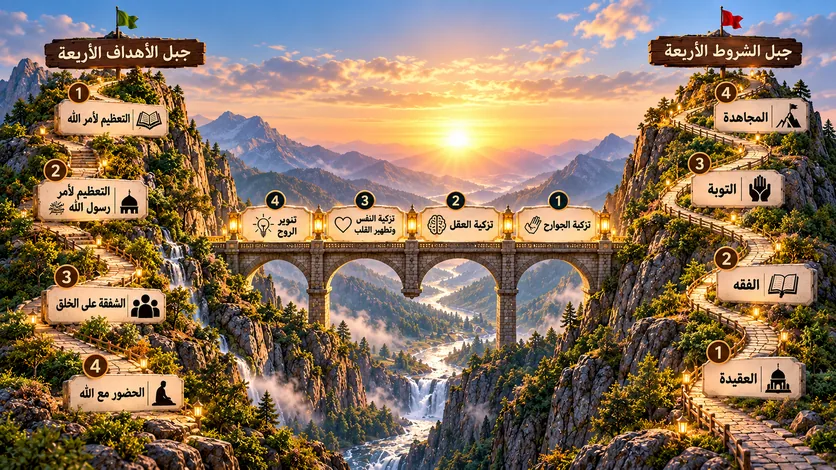
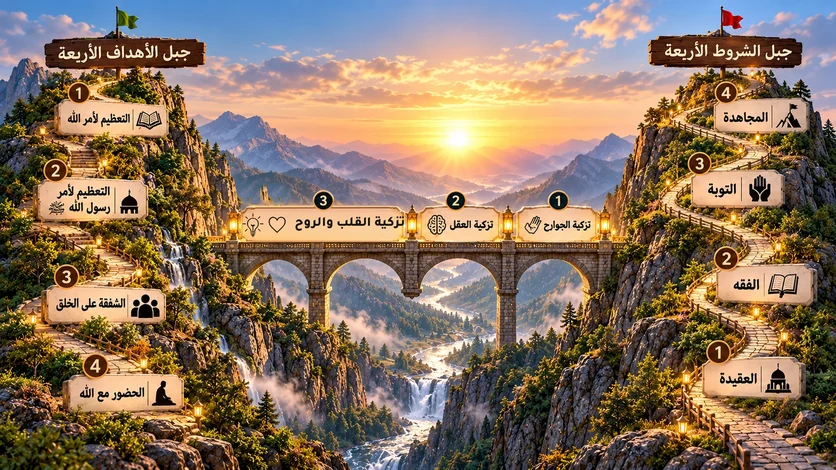
Add files via upload

Changed region(s): [[0.2799, 0.3872, 0.4976, 0.5362]]

diff --git a/index.html b/index.html
@@ -1170,6 +1170,8 @@ document.documentElement.setAttribute('dir','rtl');
 const ADHKAR={"open": {"k": "d", "t": "اللَّهُمَّ صَلِّ عَلَى مُحَمَّدٍ وَعَلَى آلِ مُحَمَّدٍ، كَمَا صَلَّيْتَ عَلَى إِبْرَاهِيمَ وَعَلَى آلِ إِبْرَاهِيمَ؛ إِنَّكَ حَمِيدٌ مَجِيدٌ، اللَّهُمَّ بَارِكْ عَلَى مُحَمَّدٍ وَعَلَى آلِ مُحَمَّدٍ، كَمَا بَارَكْتَ عَلَى إِبْرَاهِيمَ وَعَلَى آلِ إِبْرَاهِيمَ؛ إِنَّكَ حَمِيدٌ مَجِيدٌ", "n": 10, "s": "الاستهلال بالصلاة الإبراهيمية"}, "quran": [{"k": "q", "t": "بِسۡمِ ٱللَّهِ ٱلرَّحۡمَٰنِ ٱلرَّحِيمِ <span class=\"ay\">﴿1﴾</span> ٱلۡحَمۡدُ لِلَّهِ رَبِّ ٱلۡعَٰلَمِينَ <span class=\"ay\">﴿2﴾</span> ٱلرَّحۡمَٰنِ ٱلرَّحِيمِ <span class=\"ay\">﴿3﴾</span> مَٰلِكِ يَوۡمِ ٱلدِّينِ <span class=\"ay\">﴿4﴾</span> إِيَّاكَ نَعۡبُدُ وَإِيَّاكَ نَسۡتَعِينُ <span class=\"ay\">﴿5﴾</span> ٱهۡدِنَا ٱلصِّرَٰطَ ٱلۡمُسۡتَقِيمَ <span class=\"ay\">﴿6﴾</span> صِرَٰطَ ٱلَّذِينَ أَنۡعَمۡتَ عَلَيۡهِمۡ غَيۡرِ ٱلۡمَغۡضُوبِ عَلَيۡهِمۡ وَلَا ٱلضَّآلِّينَ <span class=\"ay\">﴿7﴾</span>", "n": 1, "s": "سورة الفاتحة"}, {"k": "q", "t": "<span class=\"bas\">بِسۡمِ ٱللَّهِ ٱلرَّحۡمَٰنِ ٱلرَّحِيمِ</span>الٓمٓ <span class=\"ay\">﴿1﴾</span> ذَٰلِكَ ٱلۡكِتَٰبُ لَا رَيۡبَۛ فِيهِۛ هُدٗى لِّلۡمُتَّقِينَ <span class=\"ay\">﴿2﴾</span> ٱلَّذِينَ يُؤۡمِنُونَ بِٱلۡغَيۡبِ وَيُقِيمُونَ ٱلصَّلَوٰةَ وَمِمَّا رَزَقۡنَٰهُمۡ يُنفِقُونَ <span class=\"ay\">﴿3﴾</span> وَٱلَّذِينَ يُؤۡمِنُونَ بِمَآ أُنزِلَ إِلَيۡكَ وَمَآ أُنزِلَ مِن قَبۡلِكَ وَبِٱلۡأٓخِرَةِ هُمۡ يُوقِنُونَ <span class=\"ay\">﴿4﴾</span> أُوْلَـٰٓئِكَ عَلَىٰ هُدٗى مِّن رَّبِّهِمۡۖ وَأُوْلَـٰٓئِكَ هُمُ ٱلۡمُفۡلِحُونَ <span class=\"ay\">﴿5﴾</span>", "n": 1, "s": "البقرة 1–5"}, {"k": "q", "t": "ٱللَّهُ لَآ إِلَٰهَ إِلَّا هُوَ ٱلۡحَيُّ ٱلۡقَيُّومُۚ لَا تَأۡخُذُهُۥ سِنَةٞ وَلَا نَوۡمٞۚ لَّهُۥ مَا فِي ٱلسَّمَٰوَٰتِ وَمَا فِي ٱلۡأَرۡضِۗ مَن ذَا ٱلَّذِي يَشۡفَعُ عِندَهُۥٓ إِلَّا بِإِذۡنِهِۦۚ يَعۡلَمُ مَا بَيۡنَ أَيۡدِيهِمۡ وَمَا خَلۡفَهُمۡۖ وَلَا يُحِيطُونَ بِشَيۡءٖ مِّنۡ عِلۡمِهِۦٓ إِلَّا بِمَا شَآءَۚ وَسِعَ كُرۡسِيُّهُ ٱلسَّمَٰوَٰتِ وَٱلۡأَرۡضَۖ وَلَا يَـُٔودُهُۥ حِفۡظُهُمَاۚ وَهُوَ ٱلۡعَلِيُّ ٱلۡعَظِيمُ <span class=\"ay\">﴿255﴾</span> لَآ إِكۡرَاهَ فِي ٱلدِّينِۖ قَد تَّبَيَّنَ ٱلرُّشۡدُ مِنَ ٱلۡغَيِّۚ فَمَن يَكۡفُرۡ بِٱلطَّـٰغُوتِ وَيُؤۡمِنۢ بِٱللَّهِ فَقَدِ ٱسۡتَمۡسَكَ بِٱلۡعُرۡوَةِ ٱلۡوُثۡقَىٰ لَا ٱنفِصَامَ لَهَاۗ وَٱللَّهُ سَمِيعٌ عَلِيمٌ <span class=\"ay\">﴿256﴾</span> ٱللَّهُ وَلِيُّ ٱلَّذِينَ ءَامَنُواْ يُخۡرِجُهُم مِّنَ ٱلظُّلُمَٰتِ إِلَى ٱلنُّورِۖ وَٱلَّذِينَ كَفَرُوٓاْ أَوۡلِيَآؤُهُمُ ٱلطَّـٰغُوتُ يُخۡرِجُونَهُم مِّنَ ٱلنُّورِ إِلَى ٱلظُّلُمَٰتِۗ أُوْلَـٰٓئِكَ أَصۡحَٰبُ ٱلنَّارِۖ هُمۡ فِيهَا خَٰلِدُونَ <span class=\"ay\">﴿257﴾</span>", "n": 1, "s": "آية الكرسي والآيتان بعدها · البقرة 255–257"}, {"k": "q", "t": "لِّلَّهِ مَا فِي ٱلسَّمَٰوَٰتِ وَمَا فِي ٱلۡأَرۡضِۗ وَإِن تُبۡدُواْ مَا فِيٓ أَنفُسِكُمۡ أَوۡ تُخۡفُوهُ يُحَاسِبۡكُم بِهِ ٱللَّهُۖ فَيَغۡفِرُ لِمَن يَشَآءُ وَيُعَذِّبُ مَن يَشَآءُۗ وَٱللَّهُ عَلَىٰ كُلِّ شَيۡءٖ قَدِيرٌ <span class=\"ay\">﴿284﴾</span> ءَامَنَ ٱلرَّسُولُ بِمَآ أُنزِلَ إِلَيۡهِ مِن رَّبِّهِۦ وَٱلۡمُؤۡمِنُونَۚ كُلٌّ ءَامَنَ بِٱللَّهِ وَمَلَـٰٓئِكَتِهِۦ وَكُتُبِهِۦ وَرُسُلِهِۦ لَا نُفَرِّقُ بَيۡنَ أَحَدٖ مِّن رُّسُلِهِۦۚ وَقَالُواْ سَمِعۡنَا وَأَطَعۡنَاۖ غُفۡرَانَكَ رَبَّنَا وَإِلَيۡكَ ٱلۡمَصِيرُ <span class=\"ay\">﴿285﴾</span> لَا يُكَلِّفُ ٱللَّهُ نَفۡسًا إِلَّا وُسۡعَهَاۚ لَهَا مَا كَسَبَتۡ وَعَلَيۡهَا مَا ٱكۡتَسَبَتۡۗ رَبَّنَا لَا تُؤَاخِذۡنَآ إِن نَّسِينَآ أَوۡ أَخۡطَأۡنَاۚ رَبَّنَا وَلَا تَحۡمِلۡ عَلَيۡنَآ إِصۡرٗا كَمَا حَمَلۡتَهُۥ عَلَى ٱلَّذِينَ مِن قَبۡلِنَاۚ رَبَّنَا وَلَا تُحَمِّلۡنَا مَا لَا طَاقَةَ لَنَا بِهِۦۖ وَٱعۡفُ عَنَّا وَٱغۡفِرۡ لَنَا وَٱرۡحَمۡنَآۚ أَنتَ مَوۡلَىٰنَا فَٱنصُرۡنَا عَلَى ٱلۡقَوۡمِ ٱلۡكَٰفِرِينَ <span class=\"ay\">﴿286﴾</span>", "n": 1, "s": "خواتيم البقرة · 284–286"}, {"k": "q", "t": "شَهِدَ ٱللَّهُ أَنَّهُۥ لَآ إِلَٰهَ إِلَّا هُوَ وَٱلۡمَلَـٰٓئِكَةُ وَأُوْلُواْ ٱلۡعِلۡمِ قَآئِمَۢا بِٱلۡقِسۡطِۚ لَآ إِلَٰهَ إِلَّا هُوَ ٱلۡعَزِيزُ ٱلۡحَكِيمُ <span class=\"ay\">﴿18﴾</span> إِنَّ ٱلدِّينَ عِندَ ٱللَّهِ ٱلۡإِسۡلَٰمُۗ <span class=\"ay\">…</span>", "n": 1, "s": "آل عمران 18–19"}, {"k": "q", "t": "حَسۡبِيَ ٱللَّهُ لَآ إِلَٰهَ إِلَّا هُوَۖ عَلَيۡهِ تَوَكَّلۡتُۖ وَهُوَ رَبُّ ٱلۡعَرۡشِ ٱلۡعَظِيمِ <span class=\"ay\">﴿129﴾</span>", "n": 7, "s": "التوبة 129"}, {"k": "q", "t": "قُلِ ٱدۡعُواْ ٱللَّهَ أَوِ ٱدۡعُواْ ٱلرَّحۡمَٰنَۖ أَيّٗا مَّا تَدۡعُواْ فَلَهُ ٱلۡأَسۡمَآءُ ٱلۡحُسۡنَىٰۚ وَلَا تَجۡهَرۡ بِصَلَاتِكَ وَلَا تُخَافِتۡ بِهَا وَٱبۡتَغِ بَيۡنَ ذَٰلِكَ سَبِيلٗا <span class=\"ay\">﴿110﴾</span> وَقُلِ ٱلۡحَمۡدُ لِلَّهِ ٱلَّذِي لَمۡ يَتَّخِذۡ وَلَدٗا وَلَمۡ يَكُن لَّهُۥ شَرِيكٞ فِي ٱلۡمُلۡكِ وَلَمۡ يَكُن لَّهُۥ وَلِيّٞ مِّنَ ٱلذُّلِّۖ وَكَبِّرۡهُ تَكۡبِيرَۢا <span class=\"ay\">﴿111﴾</span>", "n": 3, "s": "الإسراء 110–111"}, {"k": "q", "t": "أَفَحَسِبۡتُمۡ أَنَّمَا خَلَقۡنَٰكُمۡ عَبَثٗا وَأَنَّكُمۡ إِلَيۡنَا لَا تُرۡجَعُونَ <span class=\"ay\">﴿115﴾</span> فَتَعَٰلَى ٱللَّهُ ٱلۡمَلِكُ ٱلۡحَقُّۖ لَآ إِلَٰهَ إِلَّا هُوَ رَبُّ ٱلۡعَرۡشِ ٱلۡكَرِيمِ <span class=\"ay\">﴿116﴾</span> وَمَن يَدۡعُ مَعَ ٱللَّهِ إِلَٰهًا ءَاخَرَ لَا بُرۡهَٰنَ لَهُۥ بِهِۦ فَإِنَّمَا حِسَابُهُۥ عِندَ رَبِّهِۦٓۚ إِنَّهُۥ لَا يُفۡلِحُ ٱلۡكَٰفِرُونَ <span class=\"ay\">﴿117﴾</span> وَقُل رَّبِّ ٱغۡفِرۡ وَٱرۡحَمۡ وَأَنتَ خَيۡرُ ٱلرَّـٰحِمِينَ <span class=\"ay\">﴿118﴾</span>", "n": 1, "s": "المؤمنون 115–118"}, {"k": "q", "t": "فَسُبۡحَٰنَ ٱللَّهِ حِينَ تُمۡسُونَ وَحِينَ تُصۡبِحُونَ <span class=\"ay\">﴿17﴾</span> وَلَهُ ٱلۡحَمۡدُ فِي ٱلسَّمَٰوَٰتِ وَٱلۡأَرۡضِ وَعَشِيّٗا وَحِينَ تُظۡهِرُونَ <span class=\"ay\">﴿18﴾</span> يُخۡرِجُ ٱلۡحَيَّ مِنَ ٱلۡمَيِّتِ وَيُخۡرِجُ ٱلۡمَيِّتَ مِنَ ٱلۡحَيِّ وَيُحۡيِ ٱلۡأَرۡضَ بَعۡدَ مَوۡتِهَاۚ وَكَذَٰلِكَ تُخۡرَجُونَ <span class=\"ay\">﴿19﴾</span>", "n": 3, "s": "الروم 17–19"}, {"k": "q", "t": "<span class=\"bas\">بِسۡمِ ٱللَّهِ ٱلرَّحۡمَٰنِ ٱلرَّحِيمِ</span>حمٓ <span class=\"ay\">﴿1﴾</span> تَنزِيلُ ٱلۡكِتَٰبِ مِنَ ٱللَّهِ ٱلۡعَزِيزِ ٱلۡعَلِيمِ <span class=\"ay\">﴿2﴾</span> غَافِرِ ٱلذَّنۢبِ وَقَابِلِ ٱلتَّوۡبِ شَدِيدِ ٱلۡعِقَابِ ذِي ٱلطَّوۡلِۖ لَآ إِلَٰهَ إِلَّا هُوَۖ إِلَيۡهِ ٱلۡمَصِيرُ <span class=\"ay\">﴿3﴾</span>", "n": 3, "s": "غافر 1–3"}, {"k": "q", "t": "ٱللَّهُ لَآ إِلَٰهَ إِلَّا هُوَ ٱلۡحَيُّ ٱلۡقَيُّومُۚ لَا تَأۡخُذُهُۥ سِنَةٞ وَلَا نَوۡمٞۚ لَّهُۥ مَا فِي ٱلسَّمَٰوَٰتِ وَمَا فِي ٱلۡأَرۡضِۗ مَن ذَا ٱلَّذِي يَشۡفَعُ عِندَهُۥٓ إِلَّا بِإِذۡنِهِۦۚ يَعۡلَمُ مَا بَيۡنَ أَيۡدِيهِمۡ وَمَا خَلۡفَهُمۡۖ وَلَا يُحِيطُونَ بِشَيۡءٖ مِّنۡ عِلۡمِهِۦٓ إِلَّا بِمَا شَآءَۚ وَسِعَ كُرۡسِيُّهُ ٱلسَّمَٰوَٰتِ وَٱلۡأَرۡضَۖ وَلَا يَـُٔودُهُۥ حِفۡظُهُمَاۚ وَهُوَ ٱلۡعَلِيُّ ٱلۡعَظِيمُ <span class=\"ay\">﴿255﴾</span>", "n": 1, "s": "آية الكرسي · البقرة 255"}, {"k": "d", "t": "أَعُوذُ بِاللَّهِ السَّمِيعِ الْعَلِيمِ مِنَ الشَّيْطَانِ الرَّجِيمِ", "n": 3, "s": "الاستعاذة"}, {"k": "q", "t": "هُوَ ٱللَّهُ ٱلَّذِي لَآ إِلَٰهَ إِلَّا هُوَۖ عَٰلِمُ ٱلۡغَيۡبِ وَٱلشَّهَٰدَةِۖ هُوَ ٱلرَّحۡمَٰنُ ٱلرَّحِيمُ <span class=\"ay\">﴿22﴾</span> هُوَ ٱللَّهُ ٱلَّذِي لَآ إِلَٰهَ إِلَّا هُوَ ٱلۡمَلِكُ ٱلۡقُدُّوسُ ٱلسَّلَٰمُ ٱلۡمُؤۡمِنُ ٱلۡمُهَيۡمِنُ ٱلۡعَزِيزُ ٱلۡجَبَّارُ ٱلۡمُتَكَبِّرُۚ سُبۡحَٰنَ ٱللَّهِ عَمَّا يُشۡرِكُونَ <span class=\"ay\">﴿23﴾</span> هُوَ ٱللَّهُ ٱلۡخَٰلِقُ ٱلۡبَارِئُ ٱلۡمُصَوِّرُۖ لَهُ ٱلۡأَسۡمَآءُ ٱلۡحُسۡنَىٰۚ يُسَبِّحُ لَهُۥ مَا فِي ٱلسَّمَٰوَٰتِ وَٱلۡأَرۡضِۖ وَهُوَ ٱلۡعَزِيزُ ٱلۡحَكِيمُ <span class=\"ay\">﴿24﴾</span>", "n": 1, "s": "الحشر 22–24"}, {"k": "q", "t": "<span class=\"sn\">سورة الإخلاص</span><span class=\"bas\">بِسۡمِ ٱللَّهِ ٱلرَّحۡمَٰنِ ٱلرَّحِيمِ</span>قُلۡ هُوَ ٱللَّهُ أَحَدٌ <span class=\"ay\">﴿1﴾</span> ٱللَّهُ ٱلصَّمَدُ <span class=\"ay\">﴿2﴾</span> لَمۡ يَلِدۡ وَلَمۡ يُولَدۡ <span class=\"ay\">﴿3﴾</span> وَلَمۡ يَكُن لَّهُۥ كُفُوًا أَحَدُۢ <span class=\"ay\">﴿4﴾</span><br><span class=\"sn\">سورة الفلق</span><span class=\"bas\">بِسۡمِ ٱللَّهِ ٱلرَّحۡمَٰنِ ٱلرَّحِيمِ</span>قُلۡ أَعُوذُ بِرَبِّ ٱلۡفَلَقِ <span class=\"ay\">﴿1﴾</span> مِن شَرِّ مَا خَلَقَ <span class=\"ay\">﴿2﴾</span> وَمِن شَرِّ غَاسِقٍ إِذَا وَقَبَ <span class=\"ay\">﴿3﴾</span> وَمِن شَرِّ ٱلنَّفَّـٰثَٰتِ فِي ٱلۡعُقَدِ <span class=\"ay\">﴿4﴾</span> وَمِن شَرِّ حَاسِدٍ إِذَا حَسَدَ <span class=\"ay\">﴿5﴾</span><br><span class=\"sn\">سورة الناس</span><span class=\"bas\">بِسۡمِ ٱللَّهِ ٱلرَّحۡمَٰنِ ٱلرَّحِيمِ</span>قُلۡ أَعُوذُ بِرَبِّ ٱلنَّاسِ <span class=\"ay\">﴿1﴾</span> مَلِكِ ٱلنَّاسِ <span class=\"ay\">﴿2﴾</span> إِلَٰهِ ٱلنَّاسِ <span class=\"ay\">﴿3﴾</span> مِن شَرِّ ٱلۡوَسۡوَاسِ ٱلۡخَنَّاسِ <span class=\"ay\">﴿4﴾</span> ٱلَّذِي يُوَسۡوِسُ فِي صُدُورِ ٱلنَّاسِ <span class=\"ay\">﴿5﴾</span> مِنَ ٱلۡجِنَّةِ وَٱلنَّاسِ <span class=\"ay\">﴿6﴾</span>", "n": 3, "s": "المعوّذات: الإخلاص والفلق والناس"}], "sabah": [{"k": "s", "t": "رَضِيتُ بِاللَّهِ رَبًّا، وَبِالْإِسْلَامِ دِينًا، وَبِمُحَمَّدٍ ﷺ نَبِيًّا", "n": 3}, {"k": "s", "t": "بِسْمِ اللَّهِ الَّذِي لَا يَضُرُّ مَعَ اسْمِهِ شَيْءٌ فِي الْأَرْضِ وَلَا فِي السَّمَاءِ، وَهُوَ السَّمِيعُ الْعَلِيمُ", "n": 3}, {"k": "s", "t": "اللَّهُمَّ أَنْتَ رَبِّي لَا إِلَهَ إِلَّا أَنْتَ، عَلَيْكَ تَوَكَّلْتُ، وَأَنْتَ رَبُّ الْعَرْشِ الْعَظِيمِ، مَا شَاءَ اللَّهُ كَانَ وَمَا لَمْ يَشَأْ لَمْ يَكُنْ، لَا حَوْلَ وَلَا قُوَّةَ إِلَّا بِاللَّهِ الْعَلِيِّ الْعَظِيمِ، أَعْلَمُ أَنَّ اللَّهَ عَلَى كُلِّ شَيْءٍ قَدِيرٌ، وَأَنَّ اللَّهَ قَدْ أَحَاطَ بِكُلِّ شَيْءٍ عِلْمًا، اللَّهُمَّ إِنِّي أَعُوذُ بِكَ مِنْ شَرِّ نَفْسِي، وَمِنْ شَرِّ كُلِّ دَابَّةٍ أَنْتَ آخِذٌ بِنَاصِيَتِهَا، إِنَّ رَبِّي عَلَى صِرَاطٍ مُسْتَقِيمٍ", "n": 1}, {"k": "s", "t": "أَصْبَحْنَا وَأَصْبَحَ الْمُلْكُ لِلَّهِ وَالْحَمْدُ لِلَّهِ، لَا إِلَهَ إِلَّا اللَّهُ وَحْدَهُ لَا شَرِيكَ لَهُ، لَهُ الْمُلْكُ وَلَهُ الْحَمْدُ وَهُوَ عَلَى كُلِّ شَيْءٍ قَدِيرٌ، رَبِّ أَسْأَلُكَ خَيْرَ مَا فِي هَذَا الْيَوْمِ وَخَيْرَ مَا بَعْدَهُ، وَأَعُوذُ بِكَ مِنْ شَرِّ مَا فِي هَذَا الْيَوْمِ وَشَرِّ مَا بَعْدَهُ، رَبِّ أَعُوذُ بِكَ مِنَ الْكَسَلِ وَسُوءِ الْكِبَرِ، رَبِّ أَعُوذُ بِكَ مِنْ عَذَابٍ فِي النَّارِ وَعَذَابٍ فِي الْقَبْرِ", "n": 3}, {"k": "s", "t": "أَصْبَحْنَا وَأَصْبَحَ الْمُلْكُ لِلَّهِ رَبِّ الْعَالَمِينَ، اللَّهُمَّ إِنِّي أَسْأَلُكَ خَيْرَ هَذَا الْيَوْمِ فَتْحَهُ وَنَصْرَهُ وَنُورَهُ وَبَرَكَتَهُ وَهُدَاهُ، وَأَعُوذُ بِكَ مِنْ شَرِّ مَا فِيهِ وَشَرِّ مَا بَعْدَهُ", "n": 3}, {"k": "s", "t": "اللَّهُمَّ بِكَ أَصْبَحْنَا، وَبِكَ أَمْسَيْنَا، وَبِكَ نَحْيَا، وَبِكَ نَمُوتُ، وَإِلَيْكَ النُّشُورُ", "n": 3}, {"k": "s", "t": "اللَّهُمَّ مَا أَصْبَحَ بِي مِنْ نِعْمَةٍ أَوْ بِأَحَدٍ مِنْ خَلْقِكَ فَمِنْكَ وَحْدَكَ لَا شَرِيكَ لَكَ، فَلَكَ الْحَمْدُ وَلَكَ الشُّكْرُ", "n": 3}, {"k": "s", "t": "اللَّهُمَّ إِنِّي أَصْبَحْتُ أُشْهِدُكَ وَأُشْهِدُ حَمَلَةَ عَرْشِكَ، وَمَلَائِكَتَكَ وَجَمِيعَ خَلْقِكَ، بِأَنَّكَ أَنْتَ اللَّهُ لَا إِلَهَ إِلَّا أَنْتَ وَحْدَكَ لَا شَرِيكَ لَكَ، وَأَنَّ مُحَمَّدًا عَبْدُكَ وَرَسُولُكَ", "n": 4}, {"k": "s", "t": "اللَّهُمَّ إِنِّي أَسْأَلُكَ الْعَفْوَ وَالْعَافِيَةَ فِي الدُّنْيَا وَالْآخِرَةِ، اللَّهُمَّ إِنِّي أَسْأَلُكَ الْعَفْوَ وَالْعَافِيَةَ فِي دِينِي وَدُنْيَايَ وَأَهْلِي وَمَالِي، اللَّهُمَّ اسْتُرْ عَوْرَاتِي، وَآمِنْ رَوْعَاتِي، اللَّهُمَّ احْفَظْنِي مِنْ بَيْنِ يَدَيَّ، وَمِنْ خَلْفِي، وَعَنْ يَمِينِي، وَعَنْ شِمَالِي، وَمِنْ فَوْقِي، وَأَعُوذُ بِعَظَمَتِكَ أَنْ أُغْتَالَ مِنْ تَحْتِي", "n": 3}, {"k": "s", "t": "اللَّهُمَّ أَنْتَ رَبِّي لَا إِلَهَ إِلَّا أَنْتَ، خَلَقْتَنِي وَأَنَا عَبْدُكَ، وَأَنَا عَلَى عَهْدِكَ وَوَعْدِكَ مَا اسْتَطَعْتُ، أَعُوذُ بِكَ مِنْ شَرِّ مَا صَنَعْتُ، أَبُوءُ لَكَ بِنِعْمَتِكَ عَلَيَّ، وَأَبُوءُ لَكَ بِذَنْبِي فَاغْفِرْ لِي؛ فَإِنَّهُ لَا يَغْفِرُ الذُّنُوبَ إِلَّا أَنْتَ", "n": 3}, {"k": "s", "t": "أَصْبَحْنَا عَلَى فِطْرَةِ الْإِسْلَامِ، وَعَلَى كَلِمَةِ الْإِخْلَاصِ، وَعَلَى دِينِ نَبِيِّنَا مُحَمَّدٍ صَلَّى اللَّهُ عَلَيْهِ وَسَلَّمَ، وَعَلَى مِلَّةِ أَبِينَا إِبْرَاهِيمَ، حَنِيفًا مُسْلِمًا، وَمَا كَانَ مِنَ الْمُشْرِكِينَ", "n": 3}, {"k": "s", "t": "اللَّهُمَّ إِنِّي أَصْبَحْتُ مِنْكَ فِي نِعْمَةٍ وَعَافِيَةٍ وَسِتْرٍ، فَأَتْمِمْ عَلَيَّ نِعْمَتَكَ وَعَافِيَتَكَ وَسِتْرَكَ فِي الدُّنْيَا وَالْآخِرَةِ", "n": 3}, {"k": "s", "t": "اللَّهُمَّ فَاطِرَ السَّمَاوَاتِ وَالْأَرْضِ، عَالِمَ الْغَيْبِ وَالشَّهَادَةِ، لَا إِلَهَ إِلَّا أَنْتَ، رَبَّ كُلِّ شَيْءٍ وَمَلِيكَهُ، أَعُوذُ بِكَ مِنْ شَرِّ نَفْسِي وَمِنْ شَرِّ الشَّيْطَانِ وَشِرْكِهِ، وَأَنْ أَقْتَرِفَ عَلَى نَفْسِي سُوءًا أَوْ أَجُرَّهُ إِلَى مُسْلِمٍ", "n": 3}, {"k": "s", "t": "سُبْحَانَ اللَّهِ وَبِحَمْدِهِ عَدَدَ خَلْقِهِ، وَرِضَا نَفْسِهِ، وَزِنَةَ عَرْشِهِ، وَمِدَادَ كَلِمَاتِهِ", "n": 3}, {"k": "s", "t": "يَا رَبِّ لَكَ الْحَمْدُ كَمَا يَنْبَغِي لِجَلَالِ وَجْهِكَ وَلِعَظِيمِ سُلْطَانِكَ", "n": 3}, {"k": "s", "t": "يَا حَيُّ يَا قَيُّومُ بِرَحْمَتِكَ أَسْتَغِيثُ، أَصْلِحْ لِي شَأْنِي كُلَّهُ، وَلَا تَكِلْنِي إِلَى نَفْسِي طَرْفَةَ عَيْنٍ", "n": 3}, {"k": "s", "t": "سُبْحَانَكَ اللَّهُمَّ وَبِحَمْدِكَ، أَشْهَدُ أَنْ لَا إِلَهَ إِلَّا أَنْتَ، أَسْتَغْفِرُكَ وَأَتُوبُ إِلَيْكَ", "n": 3}, {"k": "s", "t": "اللَّهُمَّ عَافِنِي فِي بَدَنِي، اللَّهُمَّ عَافِنِي فِي سَمْعِي، اللَّهُمَّ عَافِنِي فِي بَصَرِي، لَا إِلَهَ إِلَّا أَنْتَ", "n": 3}, {"k": "s", "t": "اللَّهُمَّ إِنِّي أَعُوذُ بِكَ مِنَ الْكُفْرِ وَالْفَقْرِ، اللَّهُمَّ إِنِّي أَعُوذُ بِكَ مِنْ عَذَابِ الْقَبْرِ، لَا إِلَهَ إِلَّا أَنْتَ", "n": 3}, {"k": "s", "t": "اللَّهُمَّ أَلْهِمْنِي رُشْدِي، وَأَعِذْنِي مِنْ شَرِّ نَفْسِي", "n": 3}, {"k": "s", "t": "اللَّهُمَّ إِنِّي أَعُوذُ بِكَ مِنَ الْهَمِّ وَالْحَزَنِ، وَأَعُوذُ بِكَ مِنَ الْعَجْزِ وَالْكَسَلِ، وَأَعُوذُ بِكَ مِنَ الْجُبْنِ وَالْبُخْلِ، وَأَعُوذُ بِكَ مِنْ غَلَبَةِ الدَّيْنِ، وَقَهْرِ الرِّجَالِ", "n": 3}, {"k": "s", "t": "اللَّهُمَّ إِنِّي أَعُوذُ بِكَ أَنْ أُشْرِكَ بِكَ وَأَنَا أَعْلَمُ، وَأَسْتَغْفِرُكَ لِمَا لَا أَعْلَمُ", "n": 3}, {"k": "s", "t": "سُبْحَانَ اللَّهِ الْعَظِيمِ وَبِحَمْدِهِ، وَلَا حَوْلَ وَلَا قُوَّةَ إِلَّا بِاللَّهِ", "n": 3}, {"k": "s", "t": "اللَّهُ أَكْبَرُ، اللَّهُ أَكْبَرُ، اللَّهُ أَكْبَرُ، بِسْمِ اللَّهِ عَلَى نَفْسِي وَدِينِي، بِسْمِ اللَّهِ عَلَى كُلِّ شَيْءٍ أَعْطَانِيهِ رَبِّي، بِسْمِ اللَّهِ خَيْرِ الْأَسْمَاءِ، بِسْمِ اللَّهِ الَّذِي لَا يَضُرُّ مَعَ اسْمِهِ شَيْءٌ فِي الْأَرْضِ وَلَا فِي السَّمَاءِ، بِسْمِ اللَّهِ افْتَتَحْتُ وَعَلَى اللَّهِ تَوَكَّلْتُ، اللَّهُ اللَّهُ رَبِّي لَا أُشْرِكُ بِهِ أَحَدًا، أَسْأَلُكَ اللَّهُمَّ بِخَيْرِكَ مِنْ خَيْرِكَ الَّذِي لَا يُعْطِيهِ أَحَدٌ غَيْرُكَ، عَزَّ جَارُكَ وَجَلَّ ثَنَاؤُكَ وَلَا إِلَهَ غَيْرُكَ، اجْعَلْنِي فِي عِيَاذِكَ مِنْ شَرِّ كُلِّ سُلْطَانٍ وَمِنَ الشَّيْطَانِ الرَّجِيمِ، اللَّهُمَّ إِنِّي أَحْتَرِسُ بِكَ مِنْ شَرِّ جَمِيعِ كُلِّ ذِي شَرٍّ خَلَقْتَهُ، وَأَحْتَرِزُ بِكَ مِنْهُمْ، وَأُقَدِّمُ بَيْنَ يَدَيَّ: بِسْمِ اللَّهِ الرَّحْمَنِ الرَّحِيمِ ﴿قُلْ هُوَ اللَّهُ أَحَدٌ * اللَّهُ الصَّمَدُ * لَمْ يَلِدْ وَلَمْ يُولَدْ * وَلَمْ يَكُنْ لَهُ كُفُوًا أَحَدٌ﴾، وَمِنْ خَلْفِي مِثْلَ ذَلِكَ، وَعَنْ يَمِينِي مِثْلَ ذَلِكَ، وَعَنْ يَسَارِي مِثْلَ ذَلِكَ، وَمِنْ فَوْقِي مِثْلَ ذَلِكَ", "n": 1}], "masa": [{"k": "s", "t": "رَضِيتُ بِاللَّهِ رَبًّا، وَبِالْإِسْلَامِ دِينًا، وَبِمُحَمَّدٍ ﷺ نَبِيًّا", "n": 3}, {"k": "s", "t": "بِسْمِ اللَّهِ الَّذِي لَا يَضُرُّ مَعَ اسْمِهِ شَيْءٌ فِي الْأَرْضِ وَلَا فِي السَّمَاءِ، وَهُوَ السَّمِيعُ الْعَلِيمُ", "n": 3}, {"k": "s", "t": "اللَّهُمَّ أَنْتَ رَبِّي لَا إِلَهَ إِلَّا أَنْتَ، عَلَيْكَ تَوَكَّلْتُ، وَأَنْتَ رَبُّ الْعَرْشِ الْعَظِيمِ، مَا شَاءَ اللَّهُ كَانَ وَمَا لَمْ يَشَأْ لَمْ يَكُنْ، لَا حَوْلَ وَلَا قُوَّةَ إِلَّا بِاللَّهِ الْعَلِيِّ الْعَظِيمِ، أَعْلَمُ أَنَّ اللَّهَ عَلَى كُلِّ شَيْءٍ قَدِيرٌ، وَأَنَّ اللَّهَ قَدْ أَحَاطَ بِكُلِّ شَيْءٍ عِلْمًا، اللَّهُمَّ إِنِّي أَعُوذُ بِكَ مِنْ شَرِّ نَفْسِي، وَمِنْ شَرِّ كُلِّ دَابَّةٍ أَنْتَ آخِذٌ بِنَاصِيَتِهَا، إِنَّ رَبِّي عَلَى صِرَاطٍ مُسْتَقِيمٍ", "n": 1}, {"k": "s", "t": "أَمْسَيْنَا وَأَمْسَى الْمُلْكُ لِلَّهِ وَالْحَمْدُ لِلَّهِ، لَا إِلَهَ إِلَّا اللَّهُ وَحْدَهُ لَا شَرِيكَ لَهُ، لَهُ الْمُلْكُ وَلَهُ الْحَمْدُ وَهُوَ عَلَى كُلِّ شَيْءٍ قَدِيرٌ، رَبِّ أَسْأَلُكَ خَيْرَ مَا فِي هَذِهِ اللَّيْلَةِ وَخَيْرَ مَا بَعْدَهَا، وَأَعُوذُ بِكَ مِنْ شَرِّ مَا فِي هَذِهِ اللَّيْلَةِ وَشَرِّ مَا بَعْدَهَا، رَبِّ أَعُوذُ بِكَ مِنَ الْكَسَلِ وَسُوءِ الْكِبَرِ، رَبِّ أَعُوذُ بِكَ مِنْ عَذَابٍ فِي النَّارِ وَعَذَابٍ فِي الْقَبْرِ", "n": 3}, {"k": "s", "t": "أَمْسَيْنَا وَأَمْسَى الْمُلْكُ لِلَّهِ رَبِّ الْعَالَمِينَ، اللَّهُمَّ إِنِّي أَسْأَلُكَ خَيْرَ هَذِهِ اللَّيْلَةِ فَتْحَهَا وَنَصْرَهَا وَنُورَهَا وَبَرَكَتَهَا وَهُدَاهَا، وَأَعُوذُ بِكَ مِنْ شَرِّ مَا فِيهَا وَشَرِّ مَا بَعْدَهَا", "n": 3}, {"k": "s", "t": "اللَّهُمَّ بِكَ أَمْسَيْنَا، وَبِكَ أَصْبَحْنَا، وَبِكَ نَحْيَا، وَبِكَ نَمُوتُ، وَإِلَيْكَ الْمَصِيرُ", "n": 3}, {"k": "s", "t": "اللَّهُمَّ مَا أَمْسَى بِي مِنْ نِعْمَةٍ أَوْ بِأَحَدٍ مِنْ خَلْقِكَ فَمِنْكَ وَحْدَكَ لَا شَرِيكَ لَكَ، فَلَكَ الْحَمْدُ وَلَكَ الشُّكْرُ", "n": 3}, {"k": "s", "t": "اللَّهُمَّ إِنِّي أَمْسَيْتُ أُشْهِدُكَ وَأُشْهِدُ حَمَلَةَ عَرْشِكَ، وَمَلَائِكَتَكَ وَجَمِيعَ خَلْقِكَ، بِأَنَّكَ أَنْتَ اللَّهُ لَا إِلَهَ إِلَّا أَنْتَ وَحْدَكَ لَا شَرِيكَ لَكَ، وَأَنَّ مُحَمَّدًا عَبْدُكَ وَرَسُولُكَ", "n": 4}, {"k": "s", "t": "اللَّهُمَّ إِنِّي أَسْأَلُكَ الْعَفْوَ وَالْعَافِيَةَ فِي الدُّنْيَا وَالْآخِرَةِ، اللَّهُمَّ إِنِّي أَسْأَلُكَ الْعَفْوَ وَالْعَافِيَةَ فِي دِينِي وَدُنْيَايَ وَأَهْلِي وَمَالِي، اللَّهُمَّ اسْتُرْ عَوْرَاتِي، وَآمِنْ رَوْعَاتِي، اللَّهُمَّ احْفَظْنِي مِنْ بَيْنِ يَدَيَّ، وَمِنْ خَلْفِي، وَعَنْ يَمِينِي، وَعَنْ شِمَالِي، وَمِنْ فَوْقِي، وَأَعُوذُ بِعَظَمَتِكَ أَنْ أُغْتَالَ مِنْ تَحْتِي", "n": 3}, {"k": "s", "t": "اللَّهُمَّ أَنْتَ رَبِّي لَا إِلَهَ إِلَّا أَنْتَ، خَلَقْتَنِي وَأَنَا عَبْدُكَ، وَأَنَا عَلَى عَهْدِكَ وَوَعْدِكَ مَا اسْتَطَعْتُ، أَعُوذُ بِكَ مِنْ شَرِّ مَا صَنَعْتُ، أَبُوءُ لَكَ بِنِعْمَتِكَ عَلَيَّ، وَأَبُوءُ لَكَ بِذَنْبِي فَاغْفِرْ لِي؛ فَإِنَّهُ لَا يَغْفِرُ الذُّنُوبَ إِلَّا أَنْتَ", "n": 3}, {"k": "s", "t": "أَمْسَيْنَا عَلَى فِطْرَةِ الْإِسْلَامِ، وَعَلَى كَلِمَةِ الْإِخْلَاصِ، وَعَلَى دِينِ نَبِيِّنَا مُحَمَّدٍ صَلَّى اللَّهُ عَلَيْهِ وَسَلَّمَ، وَعَلَى مِلَّةِ أَبِينَا إِبْرَاهِيمَ، حَنِيفًا مُسْلِمًا، وَمَا كَانَ مِنَ الْمُشْرِكِينَ", "n": 3}, {"k": "s", "t": "اللَّهُمَّ إِنِّي أَمْسَيْتُ مِنْكَ فِي نِعْمَةٍ وَعَافِيَةٍ وَسِتْرٍ، فَأَتْمِمْ عَلَيَّ نِعْمَتَكَ وَعَافِيَتَكَ وَسِتْرَكَ فِي الدُّنْيَا وَالْآخِرَةِ", "n": 3}, {"k": "s", "t": "اللَّهُمَّ فَاطِرَ السَّمَاوَاتِ وَالْأَرْضِ، عَالِمَ الْغَيْبِ وَالشَّهَادَةِ، لَا إِلَهَ إِلَّا أَنْتَ، رَبَّ كُلِّ شَيْءٍ وَمَلِيكَهُ، أَعُوذُ بِكَ مِنْ شَرِّ نَفْسِي وَمِنْ شَرِّ الشَّيْطَانِ وَشِرْكِهِ، وَأَنْ أَقْتَرِفَ عَلَى نَفْسِي سُوءًا أَوْ أَجُرَّهُ إِلَى مُسْلِمٍ", "n": 3}, {"k": "s", "t": "سُبْحَانَ اللَّهِ وَبِحَمْدِهِ عَدَدَ خَلْقِهِ، وَرِضَا نَفْسِهِ، وَزِنَةَ عَرْشِهِ، وَمِدَادَ كَلِمَاتِهِ", "n": 3}, {"k": "s", "t": "يَا رَبِّ لَكَ الْحَمْدُ كَمَا يَنْبَغِي لِجَلَالِ وَجْهِكَ وَلِعَظِيمِ سُلْطَانِكَ", "n": 3}, {"k": "s", "t": "يَا حَيُّ يَا قَيُّومُ بِرَحْمَتِكَ أَسْتَغِيثُ، أَصْلِحْ لِي شَأْنِي كُلَّهُ، وَلَا تَكِلْنِي إِلَى نَفْسِي طَرْفَةَ عَيْنٍ", "n": 3}, {"k": "s", "t": "سُبْحَانَكَ اللَّهُمَّ وَبِحَمْدِكَ، أَشْهَدُ أَنْ لَا إِلَهَ إِلَّا أَنْتَ، أَسْتَغْفِرُكَ وَأَتُوبُ إِلَيْكَ", "n": 3}, {"k": "s", "t": "اللَّهُمَّ عَافِنِي فِي بَدَنِي، اللَّهُمَّ عَافِنِي فِي سَمْعِي، اللَّهُمَّ عَافِنِي فِي بَصَرِي، لَا إِلَهَ إِلَّا أَنْتَ", "n": 3}, {"k": "s", "t": "اللَّهُمَّ إِنِّي أَعُوذُ بِكَ مِنَ الْكُفْرِ وَالْفَقْرِ، اللَّهُمَّ إِنِّي أَعُوذُ بِكَ مِنْ عَذَابِ الْقَبْرِ، لَا إِلَهَ إِلَّا أَنْتَ", "n": 3}, {"k": "s", "t": "اللَّهُمَّ أَلْهِمْنِي رُشْدِي، وَأَعِذْنِي مِنْ شَرِّ نَفْسِي", "n": 3}, {"k": "s", "t": "اللَّهُمَّ إِنِّي أَعُوذُ بِكَ مِنَ الْهَمِّ وَالْحَزَنِ، وَأَعُوذُ بِكَ مِنَ الْعَجْزِ وَالْكَسَلِ، وَأَعُوذُ بِكَ مِنَ الْجُبْنِ وَالْبُخْلِ، وَأَعُوذُ بِكَ مِنْ غَلَبَةِ الدَّيْنِ، وَقَهْرِ الرِّجَالِ", "n": 3}, {"k": "s", "t": "اللَّهُمَّ إِنِّي أَعُوذُ بِكَ أَنْ أُشْرِكَ بِكَ وَأَنَا أَعْلَمُ، وَأَسْتَغْفِرُكَ لِمَا لَا أَعْلَمُ", "n": 3}, {"k": "s", "t": "سُبْحَانَ اللَّهِ الْعَظِيمِ وَبِحَمْدِهِ، وَلَا حَوْلَ وَلَا قُوَّةَ إِلَّا بِاللَّهِ", "n": 3}, {"k": "s", "t": "اللَّهُ أَكْبَرُ، اللَّهُ أَكْبَرُ، اللَّهُ أَكْبَرُ، بِسْمِ اللَّهِ عَلَى نَفْسِي وَدِينِي، بِسْمِ اللَّهِ عَلَى كُلِّ شَيْءٍ أَعْطَانِيهِ رَبِّي، بِسْمِ اللَّهِ خَيْرِ الْأَسْمَاءِ، بِسْمِ اللَّهِ الَّذِي لَا يَضُرُّ مَعَ اسْمِهِ شَيْءٌ فِي الْأَرْضِ وَلَا فِي السَّمَاءِ، بِسْمِ اللَّهِ افْتَتَحْتُ وَعَلَى اللَّهِ تَوَكَّلْتُ، اللَّهُ اللَّهُ رَبِّي لَا أُشْرِكُ بِهِ أَحَدًا، أَسْأَلُكَ اللَّهُمَّ بِخَيْرِكَ مِنْ خَيْرِكَ الَّذِي لَا يُعْطِيهِ أَحَدٌ غَيْرُكَ، عَزَّ جَارُكَ وَجَلَّ ثَنَاؤُكَ وَلَا إِلَهَ غَيْرُكَ، اجْعَلْنِي فِي عِيَاذِكَ مِنْ شَرِّ كُلِّ سُلْطَانٍ وَمِنَ الشَّيْطَانِ الرَّجِيمِ، اللَّهُمَّ إِنِّي أَحْتَرِسُ بِكَ مِنْ شَرِّ جَمِيعِ كُلِّ ذِي شَرٍّ خَلَقْتَهُ، وَأَحْتَرِزُ بِكَ مِنْهُمْ، وَأُقَدِّمُ بَيْنَ يَدَيَّ: بِسْمِ اللَّهِ الرَّحْمَنِ الرَّحِيمِ ﴿قُلْ هُوَ اللَّهُ أَحَدٌ * اللَّهُ الصَّمَدُ * لَمْ يَلِدْ وَلَمْ يُولَدْ * وَلَمْ يَكُنْ لَهُ كُفُوًا أَحَدٌ﴾، وَمِنْ خَلْفِي مِثْلَ ذَلِكَ، وَعَنْ يَمِينِي مِثْلَ ذَلِكَ، وَعَنْ يَسَارِي مِثْلَ ذَلِكَ، وَمِنْ فَوْقِي مِثْلَ ذَلِكَ", "n": 1}], "verse": "فَٱصۡبِرۡ عَلَىٰ مَا يَقُولُونَ وَسَبِّحۡ بِحَمۡدِ رَبِّكَ قَبۡلَ طُلُوعِ ٱلشَّمۡسِ وَقَبۡلَ ٱلۡغُرُوبِ"};
 /* ---------- i18n: exact strings  [en, fr, es, ru] ---------- */
 const I18N_D={
+"تزكية القلب والروح":["Purifying the heart and the spirit", "Purifier le cœur et l’esprit", "Purificar el corazón y el espíritu", "Очищение сердца и духа"],
+"شخّص حالة قلبك وأتمّ علاجًا واحدًا كاملًا، وداوم على ذكرك الشخصي ثلاثين يومًا، وجرّب خلوة.":["Diagnose your heart and complete one full treatment, keep up your personal dhikr for thirty days, and try a retreat.", "Diagnostique ton cœur et achève un traitement complet, persévère dans ton dhikr personnel trente jours, et essaie une retraite.", "Diagnostica tu corazón y completa un tratamiento entero, mantén tu dhikr personal treinta días y prueba un retiro.", "Определи состояние сердца и пройди одно полное лечение, совершай личный зикр тридцать дней и попробуй уединение."],
 "أنت تتصفح خارج وردك":["You are browsing outside your daily portion", "Vous lisez en dehors de votre wird", "Estás leyendo fuera de tu porción diaria", "Вы читаете вне своего ежедневного вирда"],
 "لا تُحسب هذه الصفحات في الورد اليومي. وصلت في وردك إلى":["These pages don’t count toward your daily portion. In your portion you reached", "Ces pages ne comptent pas dans votre wird quotidien. Dans votre wird, vous êtes arrivé à", "Estas páginas no cuentan para tu porción diaria. En tu porción llegaste a", "Эти страницы не засчитываются в вирд. В вирде вы дошли до"],
 "ارجع إلى وردي":["Back to my portion", "Revenir à mon wird", "Volver a mi porción", "Вернуться к вирду"],
@@ -4262,8 +4264,7 @@ function pathData(){const a=auSt(),v=vdSt(),man=pathMan(),M=S.marks||{};
    {k:'b',t:'جسر التزكية',sub:'العبور من العادة إلى الحضور',steps:[
      st('jawarih','تزكية الجوارح',org,3,'tazkiya','أتمّ مرحلة التطهير في ثلاث جوارح على الأقل.'),
      st('aql','تزكية العقل',0,1,'method','اقرأ «المنهج المحمدي» وتأمّله، ثم سجّل أنك أتممته.',false),
-     st('nafs','تزكية النفس وتطهير القلب',qn,1,'qalb','شخّص حالة قلبك وأتمّ علاجًا واحدًا كاملًا.'),
-     st('ruh','تنوير الروح',dk,30,'aamal','داوم على ذكرك الشخصي ثلاثين يومًا، وجرّب خلوة.')]},
+     st('nafs','تزكية القلب والروح',qn>=1?Math.min(dk,30):Math.min(dk,29),30,'qalb','شخّص حالة قلبك وأتمّ علاجًا واحدًا كاملًا، وداوم على ذكرك الشخصي ثلاثين يومًا، وجرّب خلوة.')]},
    {k:'g',t:'جبل الأهداف الأربعة',sub:'ثمرات الطريق، تُعرف بعلاماتها',steps:[
      st('g1','التعظيم لأمر الله',0,1,'aamal','علامته: المبادرة إلى الفرائض في أوقاتها، والوقوف عند الحدود.',false),
      st('g2','التعظيم لأمر رسول الله ﷺ',0,1,'aamal','علامته: الحرص على السنن والنوافل، والصلاة عليه ﷺ.',false),
@@ -4280,8 +4281,8 @@ function pathPlan(P){const w=pathWhere(P),out=[],L7=lastDays(7);
     else if(x.id==='mujahada')out.push({t:'لا تؤخّر صلاة عن وقتها',s:'وصلّ ما استطعت منها في المسجد',go:'aamal'});
     else if(x.id==='jawarih')out.push({t:'ركّز هذا الأسبوع على جارحة واحدة',s:'ابدأ تطهيرها أو أكمله في «التزكية»',go:'tazkiya'});
     else if(x.id==='aql')out.push({t:'اقرأ بابًا من «المنهج المحمدي» كل يوم',s:'ويمكنك الاستماع إليه بالقارئ الآلي',go:'method'});
-    else if(x.id==='nafs')out.push({t:'شخّص حالة قلبك',s:'ثم ابدأ العلاج المقترح لك',go:'qalb'});
-    else if(x.id==='ruh')out.push({t:'خصّص وقتًا ثابتًا لذكرك الشخصي كل يوم',s:'ولو عشر دقائق بعد العشاء',go:'aamal'});
+    else if(x.id==='nafs'&&!((qb().hist||[]).length))out.push({t:'شخّص حالة قلبك',s:'ثم ابدأ العلاج المقترح لك',go:'qalb'});
+    else if(x.id==='nafs')out.push({t:'خصّص وقتًا ثابتًا لذكرك الشخصي كل يوم',s:'ولو عشر دقائق بعد العشاء',go:'aamal'});
     else out.push({t:'راقب في نفسك علامة: '+x.t,s:x.hint,go:x.go})}
   const ad=L7.filter(d=>d!==TODAY&&!((S.log[d]||{}).awrad||[]).includes('sabah')).length;
   if(ad>=3)out.push({t:'أذكار الصباح بعد صلاة الفجر',s:`<span>فاتتك في</span> ${ad} <span>من آخر 7 أيام</span>`,go:'adh_sabah'});
@@ -4877,7 +4878,7 @@ function viewInstall(){const P=installParts();
 }
 /* roadmap: the path to Allah's pleasure (image + readable legend) */
 const RM=[{t:'جبل الشروط الأربعة',c:'rm-c',sub:'نقطة الانطلاق',it:['العقيدة','الفقه','التوبة','المجاهدة']},
- {t:'جسر التزكية',c:'rm-b',sub:'العبور',it:['تزكية الجوارح','تزكية العقل','تزكية النفس وتطهير القلب','تنوير الروح']},
+ {t:'جسر التزكية',c:'rm-b',sub:'العبور',it:['تزكية الجوارح','تزكية العقل','تزكية القلب والروح']},
  {t:'جبل الأهداف الأربعة',c:'rm-g',sub:'الغاية',it:['التعظيم لأمر الله','التعظيم لأمر رسول الله ﷺ','الشفقة على الخلق','الحضور مع الله']}];
 const RM_GO={'التوبة':{go:'tawba',s:'شروط التوبة، وردّ الحقوق، والثبات عليها',r:1},'المجاهدة':{go:'mujahada',s:'معنى المجاهدة والاستقامة وشروطهما',r:1},'العقيدة':{go:'aqida',s:'دروس صوتية في شرح العقيدة الأشعرية'},'الفقه':{go:'fiqh',s:'دروس مرئية في الفقه المالكي',v:1}};
 /* tappable signs on the map image, in % of the picture */

diff --git a/sw.js b/sw.js
@@ -1,4 +1,4 @@
-const CACHE='murshid-1793340291',LIB='murshid-lib-v1',MEDIA='murshid-media-v1',QURAN='murshid-quran-v2';
+const CACHE='murshid-1793360257',LIB='murshid-lib-v1',MEDIA='murshid-media-v1',QURAN='murshid-quran-v2';
 const SHELL=['./','index.html','manifest.webmanifest','icon-192.png','icon-512.png','maskable-512.png','apple-touch-icon.png','maiya.jpg','maiya-wide.jpg','madina.jpg','bg-tazkiya.jpg','bg-aamal.jpg','bg-taammulat.jpg','bg-ruhi.jpg','bg-quran.jpg','bg-method.jpg','bg-about.jpg','heart.webp','rays.webp','roadmap.webp','roadmap-s.webp','data/tq.json','data/qa.json','adhan.mp3'];
 const SDK='https://www.gstatic.com/firebasejs/10.12.2/';
 const LIBS=[SDK+'firebase-app.js',SDK+'firebase-auth.js',SDK+'firebase-firestore.js',SDK+'firebase-messaging.js',
